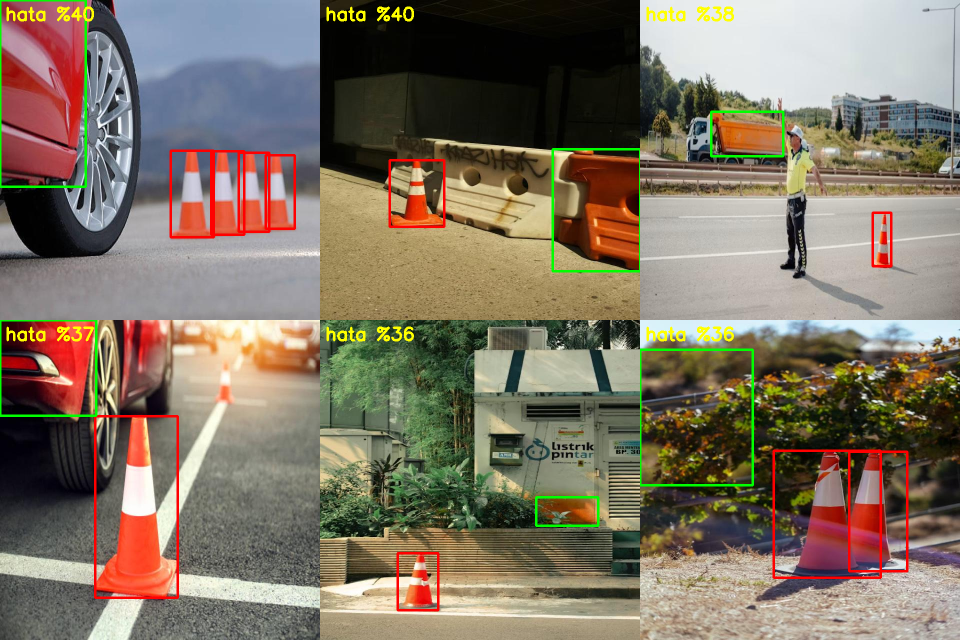
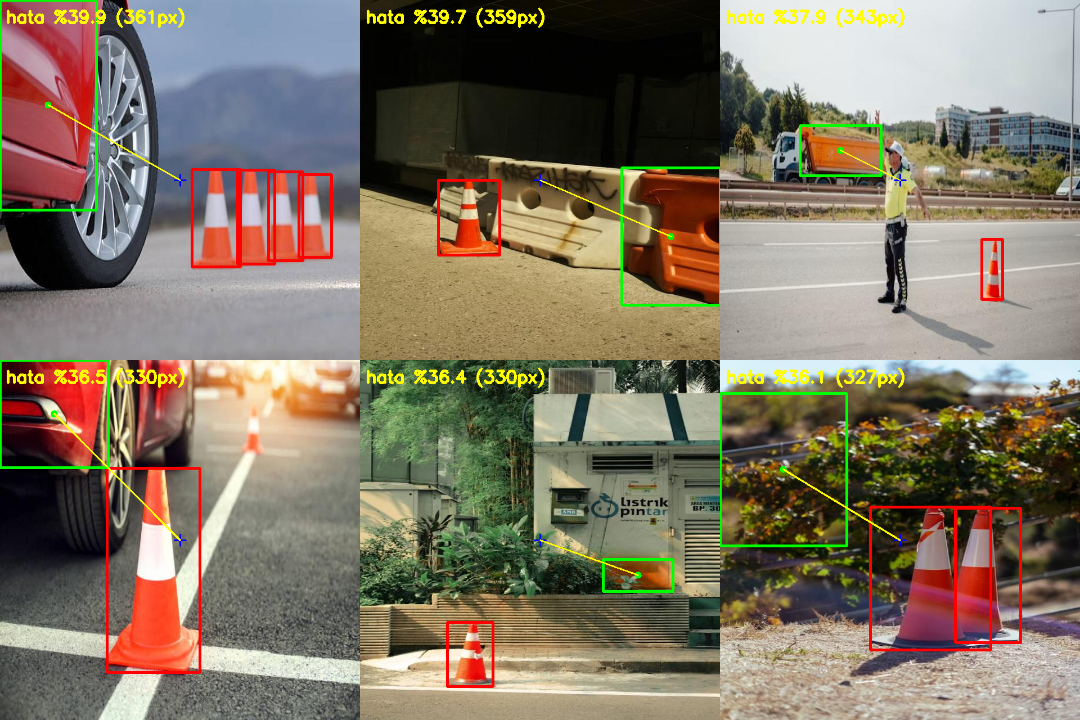
feat: en başarılı 6 örnek (eval_best.png) ve merkez/fark çizgileri eklendi

diff --git a/tools/evaluate.py b/tools/evaluate.py
@@ -117,23 +117,33 @@ plt.tight_layout()
 plt.savefig(os.path.join(OUT, "eval_hist.png"), dpi=120)
 plt.close()
 
-# --- En kötü 6 (miss'ler dahil) ---
-worst = sorted(rows, key=lambda r: (r["found"], -(r["err_norm"] or 0)))
-worst = [r for r in worst if (not r["found"]) or r["err_norm"] > 0][:6]
+# --- En iyi 6 ve En kötü 6 ---
+def make_montage(subset, out_name):
+    tiles = []
+    for r in subset[:6]:
+        im = read_image_utf8(r["path"])
+        h_im, w_im = im.shape[:2]
+        cx0, cy0 = w_im // 2, h_im // 2
+        cv2.drawMarker(im, (cx0, cy0), (255, 0, 0), cv2.MARKER_CROSS, 20, 2)
+        for g in r["gts"]:
+            cv2.rectangle(im, (int(g[0]), int(g[1])), (int(g[2]), int(g[3])), (0, 0, 255), 3)
+        if r["det"]:
+            d = r["det"]
+            cv2.rectangle(im, (int(d[0]), int(d[1])), (int(d[2]), int(d[3])), (0, 255, 0), 3)
+            cx_d, cy_d = (int(d[0]) + int(d[2])) // 2, (int(d[1]) + int(d[3])) // 2
+            cv2.circle(im, (cx_d, cy_d), 6, (0, 255, 0), -1)
+            cv2.line(im, (cx0, cy0), (cx_d, cy_d), (0, 255, 255), 2)
+        label = "MISS" if not r["found"] else f"hata %{r['err_norm']*100:.1f} ({r['err_px']:.0f}px)"
+        cv2.putText(im, label, (10, 40), cv2.FONT_HERSHEY_SIMPLEX, 1.0, (0, 255, 255), 3)
+        tiles.append(cv2.resize(im, (360, 360)))
+    while len(tiles) < 6:
+        tiles.append(np.zeros((360, 360, 3), np.uint8))
+    montage = np.vstack([np.hstack(tiles[:3]), np.hstack(tiles[3:6])])
+    save_png(os.path.join(OUT, out_name), montage)
+
+
 worst = sorted(rows, key=lambda r: -(1.0 if not r["found"] else r["err_norm"]))[:6]
-tiles = []
-for r in worst:
-    im = read_image_utf8(r["path"])
-    for g in r["gts"]:
-        cv2.rectangle(im, (int(g[0]), int(g[1])), (int(g[2]), int(g[3])), (0, 0, 255), 3)
-    if r["det"]:
-        d = r["det"]
-        cv2.rectangle(im, (int(d[0]), int(d[1])), (int(d[2]), int(d[3])), (0, 255, 0), 3)
-    label = "MISS" if not r["found"] else f"hata %{r['err_norm']*100:.0f}"
-    cv2.putText(im, label, (10, 40), cv2.FONT_HERSHEY_SIMPLEX, 1.2, (0, 255, 255), 3)
-    tiles.append(cv2.resize(im, (320, 320)))
-while len(tiles) < 6:
-    tiles.append(np.zeros((320, 320, 3), np.uint8))
-montage = np.vstack([np.hstack(tiles[:3]), np.hstack(tiles[3:6])])
-save_png(os.path.join(OUT, "eval_worst.png"), montage)
-print("Çıktılar: outputs/eval_results.csv, eval_hist.png, eval_worst.png")
+best = sorted([r for r in rows if r["found"]], key=lambda r: r["err_norm"])[:6]
+make_montage(worst, "eval_worst.png")
+make_montage(best, "eval_best.png")
+print("Çıktılar: outputs/eval_results.csv, eval_hist.png, eval_best.png, eval_worst.png")
